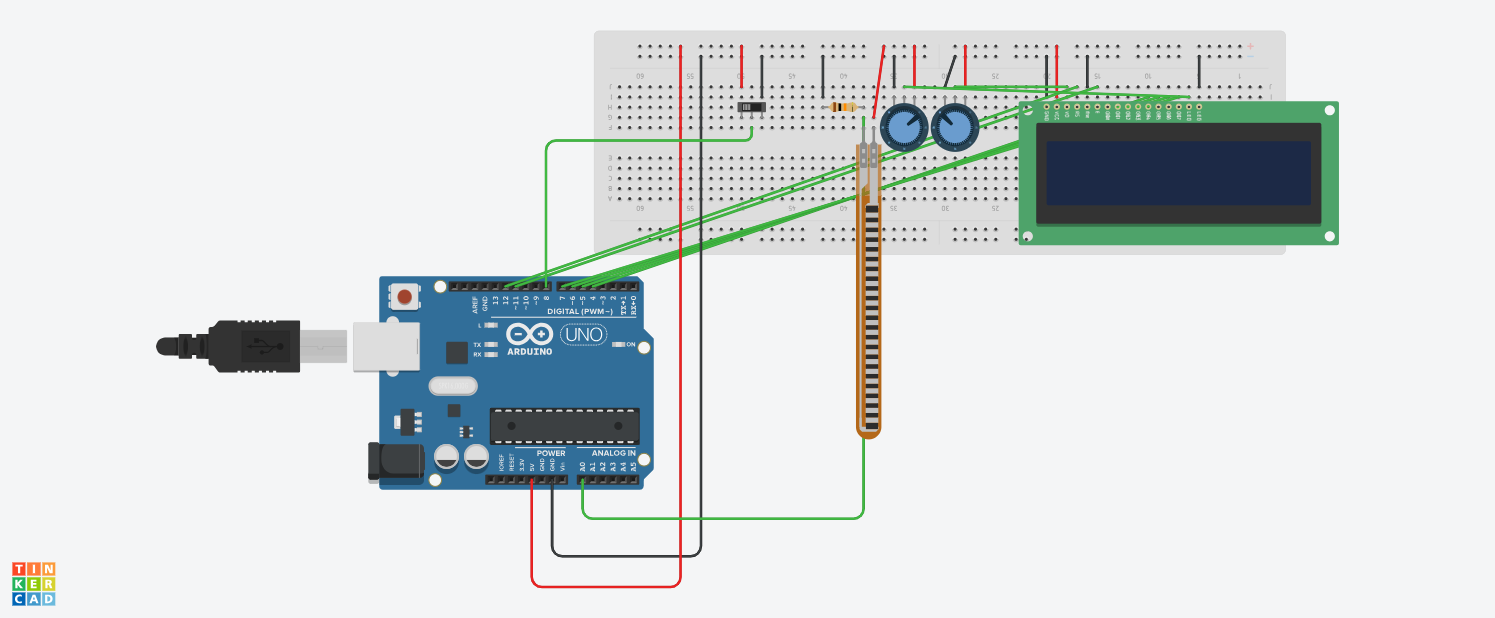
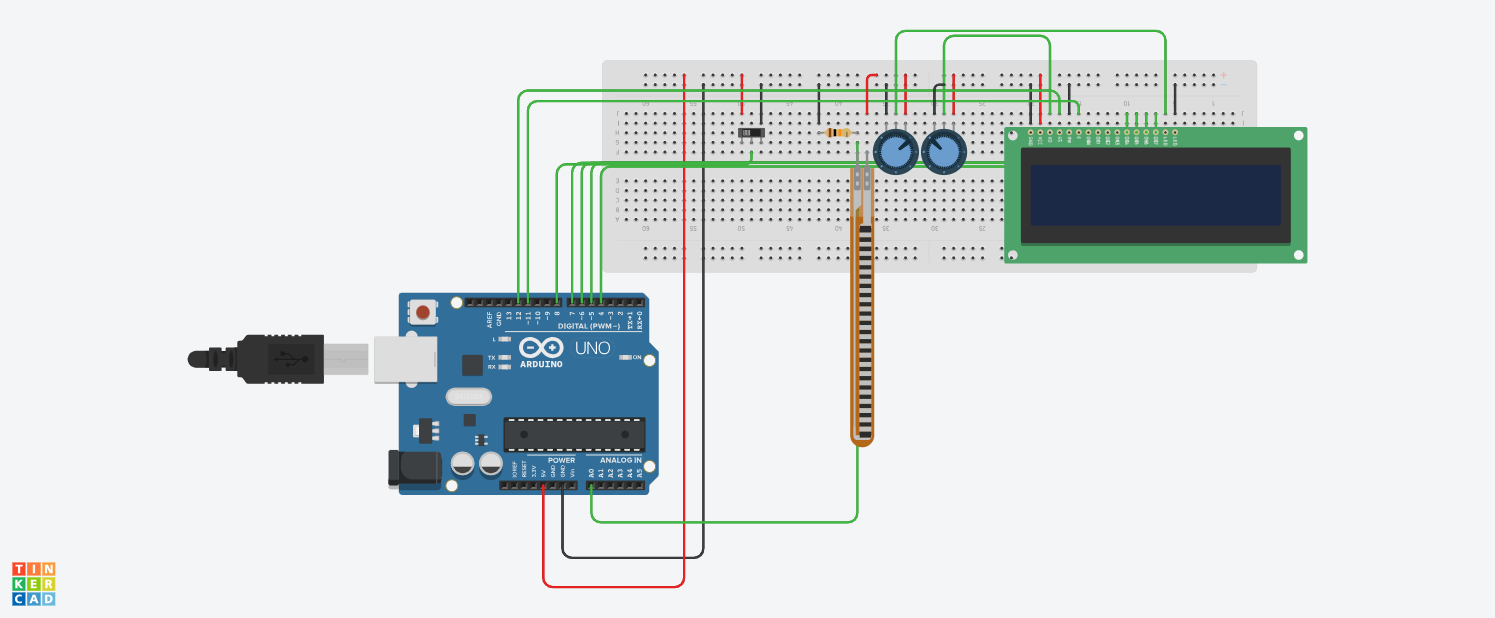
editCircuitDiagram

Changed region(s): [[0.0923, 0.0307, 0.9231, 0.9531]]

diff --git a/README.md b/README.md
@@ -54,4 +54,6 @@
 
 ## Final Diagram
 Your circuit will look like this when you click start simulation button
-![Circuit Diagram](https://github.com/mohamedsameh108/Stresses-Analysis-3rd-Project/blob/main/runningCircuit.png)
+![Circuit Diagram](https://github.com/mohamedsameh108/Stresses-Analysis-3rd-Project/blob/main/runningCircuitD.png)
+And if you switched to rad it will look like that
+![Circuit Diagram](https://github.com/mohamedsameh108/Stresses-Analysis-3rd-Project/blob/main/runningCircuitR.png)
